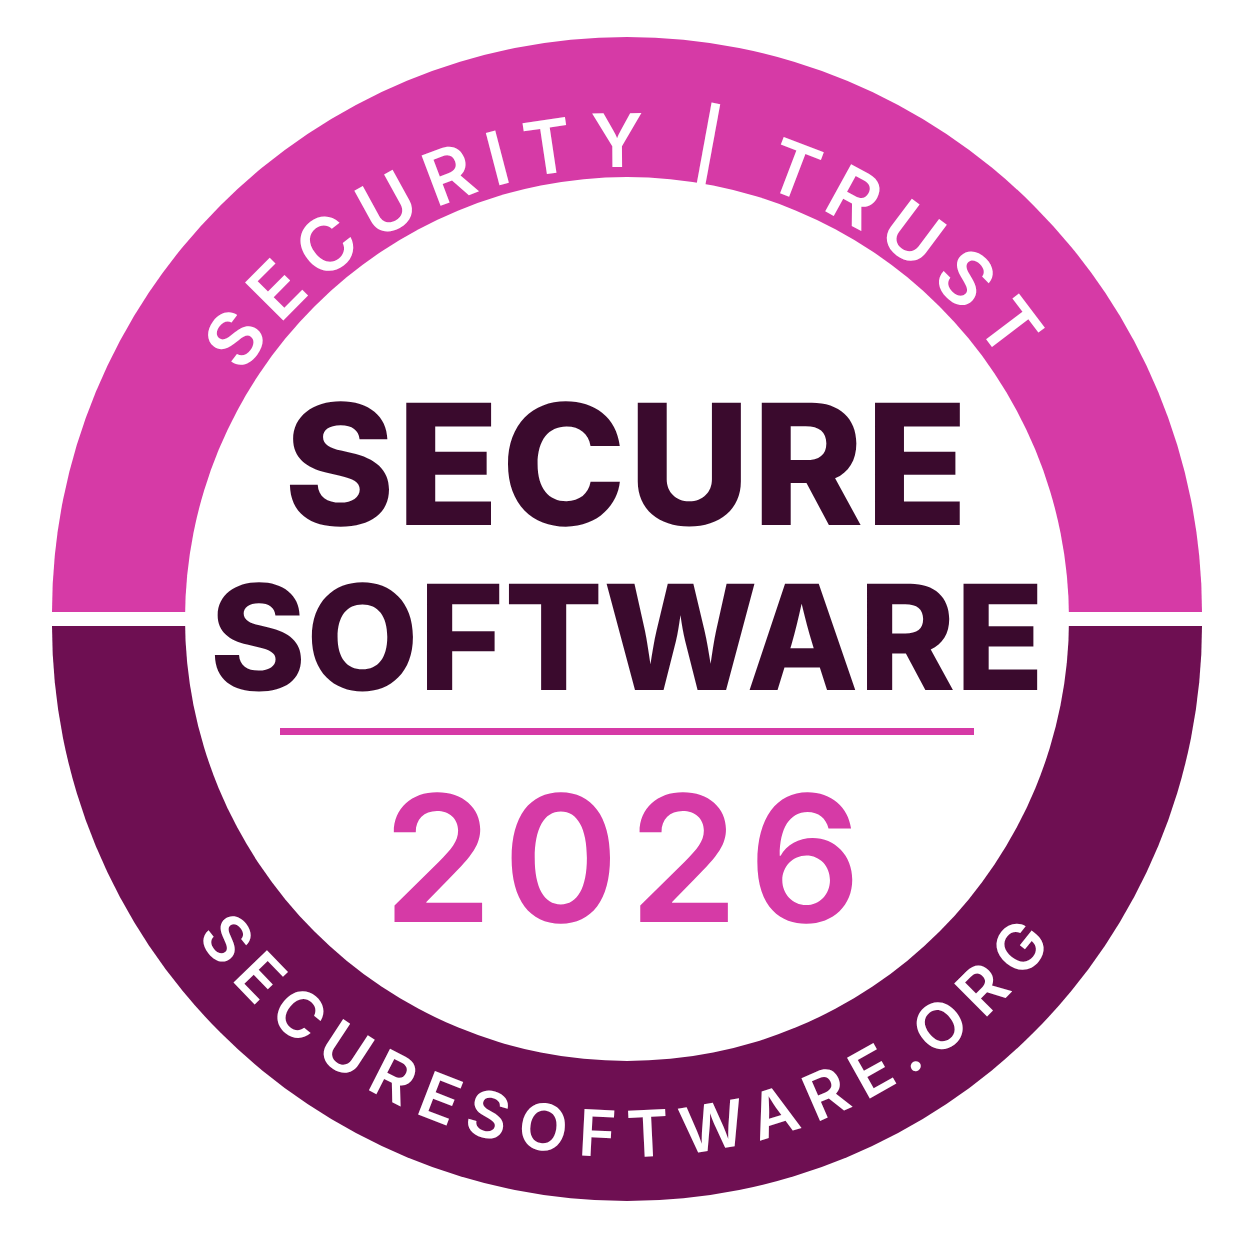
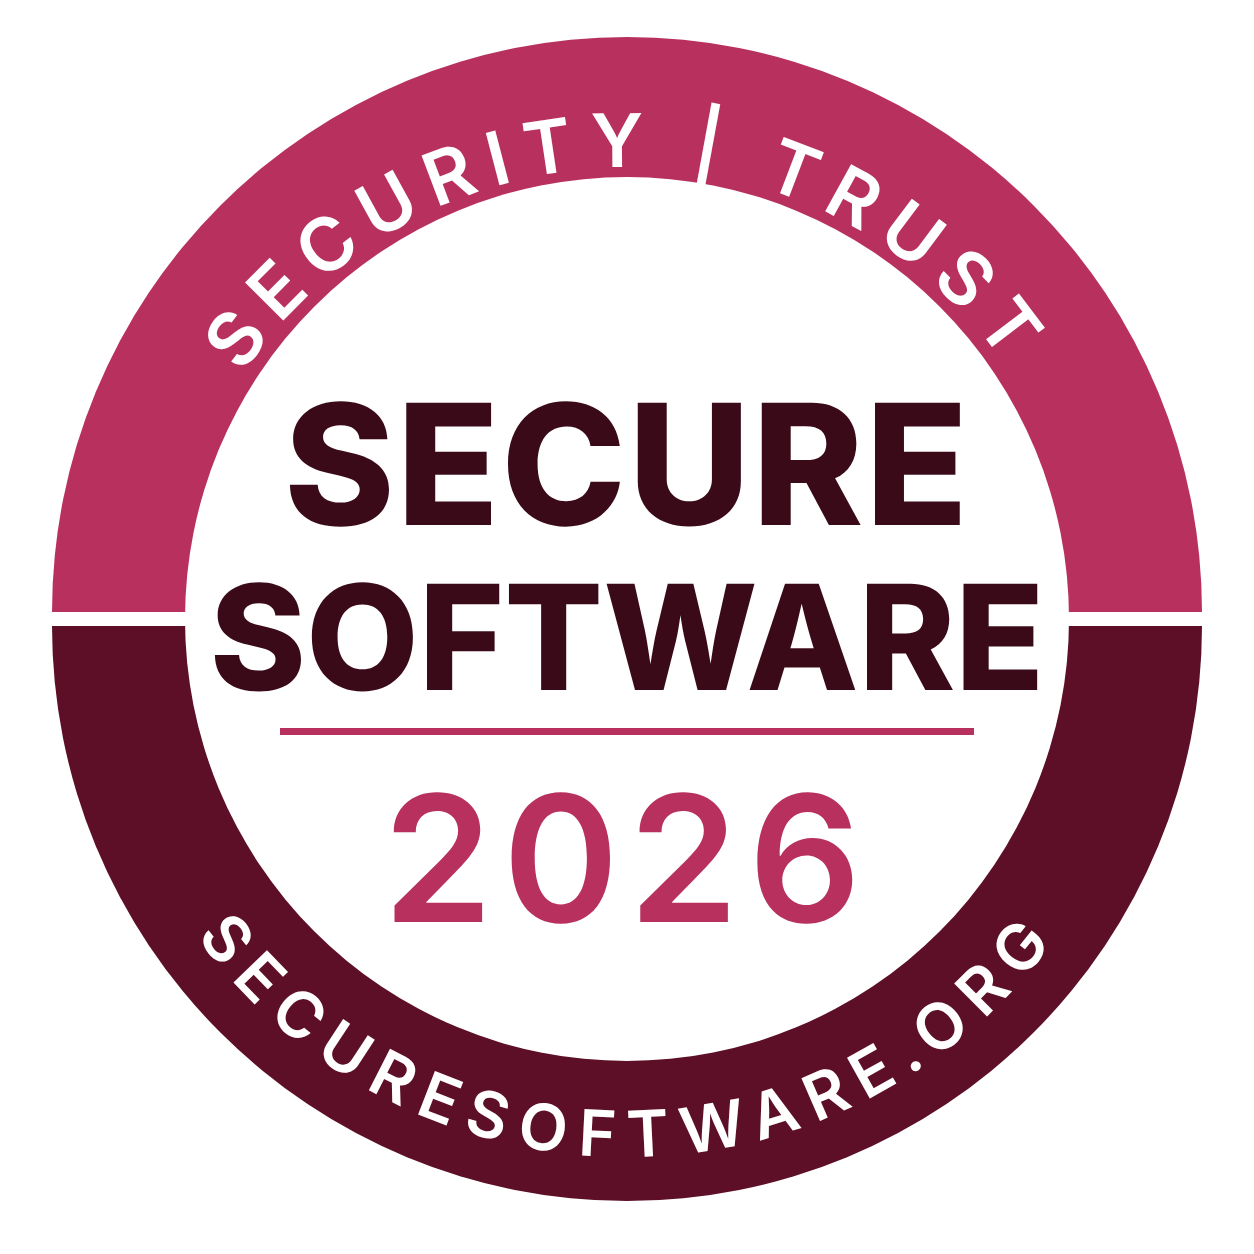
Try wine palette (burgundy/merlot)
Claude-Session: https://claude.ai/code/session_01G6gvxkUtkH3PQ2kPFbRBNR

Changed region(s): [[0.0311, 0.0311, 0.9641, 0.9641], [0.311, 0.622, 0.6842, 0.7464], [0.2177, 0.5598, 0.7775, 0.5909]]

diff --git a/site.css b/site.css
@@ -1,10 +1,10 @@
 /* Secure Software — shared site styles.
-   Same layout system as securefunder.org / securebroker.org, with a magenta palette. */
+   Same layout system as securefunder.org / securebroker.org, with a wine palette. */
 :root {
-  --ink: #1E1219; --text: #45363F; --muted: #7A6672; --rule: #EADCE5; --band: #FCF4F9; --paper: #FFFFFF;
-  --link: #A21C7A; --accent: #A21C7A; --accent-deep: #7E1460; --dark: #2A0B22;
-  --highlight: #F5A6DA; --tag: #FBD3EE;
-  --foot-text: #D4BFCC; --foot-head: #A98E9E; --foot-link: #F5E6EF;
+  --ink: #1E1216; --text: #45353B; --muted: #7A666D; --rule: #EADDE1; --band: #FBF4F6; --paper: #FFFFFF;
+  --link: #8C1D40; --accent: #8C1D40; --accent-deep: #6B1530; --dark: #2A0A14;
+  --highlight: #E8B4C4; --tag: #F5D5DF;
+  --foot-text: #D6BFC7; --foot-head: #A88E97; --foot-link: #F5E7EC;
   --serif: 'Source Serif 4', Georgia, 'Times New Roman', serif;
   --sans: 'Public Sans', 'Helvetica Neue', Arial, sans-serif;
   --wrap: 1160px;
@@ -66,7 +66,7 @@ h1, h2, h3 { font-family: var(--serif); color: var(--ink); font-weight: 500; mar
 .body p:last-child { margin-bottom: 0; }
 .body strong { color: var(--ink); font-weight: 600; }
 .tag-new { display: inline-block; background: var(--tag); color: var(--ink); font-size: 12px; font-weight: 700; letter-spacing: .08em; text-transform: uppercase; line-height: 1; padding: 6px 9px; margin-bottom: 14px; }
-.soft-mark { background: rgba(245, 166, 218, .5); color: inherit; padding: 1px 4px; border-radius: 3px; }
+.soft-mark { background: rgba(232, 180, 196, .55); color: inherit; padding: 1px 4px; border-radius: 3px; }
 
 .lead { font-family: var(--serif); font-size: 24px; line-height: 1.45; color: var(--ink); margin: 0 0 28px; max-width: 30em; }
 
@@ -90,7 +90,7 @@ h1, h2, h3 { font-family: var(--serif); color: var(--ink); font-weight: 500; mar
 /* Compare (not a checklist) */
 .contrast { display: grid; grid-template-columns: repeat(2, minmax(0, 1fr)); gap: 16px; }
 .contrast > div { border: 1px solid var(--rule); padding: 22px 22px 24px; }
-.contrast .is { border-color: var(--accent); background: #FDF5FA; }
+.contrast .is { border-color: var(--accent); background: #FCF4F7; }
 .contrast h3 { font-family: var(--sans); font-size: 12px; font-weight: 700; letter-spacing: .1em; text-transform: uppercase; color: var(--muted); margin: 0 0 12px; }
 .contrast .is h3 { color: var(--accent); }
 .contrast ul { list-style: none; margin: 0; padding: 0; }

diff --git a/how-it-works/index.html b/how-it-works/index.html
@@ -10,8 +10,8 @@
 <meta property="og:type" content="website">
 <meta property="og:url" content="https://securesoftware.org/how-it-works/">
 <meta property="og:image" content="https://securesoftware.org/og-blank.png">
-<link rel="icon" type="image/png" sizes="32x32" href="../magenta-rings.png">
-<link rel="apple-touch-icon" sizes="180x180" href="../magenta-rings.png">
+<link rel="icon" type="image/png" sizes="32x32" href="../wine-rings.png">
+<link rel="apple-touch-icon" sizes="180x180" href="../wine-rings.png">
 <link rel="preconnect" href="https://fonts.googleapis.com">
 <link rel="preconnect" href="https://fonts.gstatic.com" crossorigin>
 <link href="https://fonts.googleapis.com/css2?family=Public+Sans:wght@400;500;600;700&family=Source+Serif+4:opsz,wght@8..60,400;8..60,500;8..60,600;8..60,700&display=swap" rel="stylesheet">
@@ -23,7 +23,7 @@
 
 <header class="nav">
   <div class="wrap">
-    <a class="nav-logo" href="../" aria-label="Secure Software home"><img src="../magenta-rings.png" alt=""><span>Secure Software<sup>&trade;</sup></span></a>
+    <a class="nav-logo" href="../" aria-label="Secure Software home"><img src="../wine-rings.png" alt=""><span>Secure Software<sup>&trade;</sup></span></a>
     <nav class="nav-links" aria-label="Primary">
       <a href="https://securebroker.org" target="_blank" rel="noopener noreferrer">For Brokers</a>
       <a href="https://securefunder.org" target="_blank" rel="noopener noreferrer">For Funders</a>

diff --git a/directory/index.html b/directory/index.html
@@ -10,8 +10,8 @@
 <meta property="og:type" content="website">
 <meta property="og:url" content="https://securesoftware.org/directory/">
 <meta property="og:image" content="https://securesoftware.org/og-blank.png">
-<link rel="icon" type="image/png" sizes="32x32" href="../magenta-rings.png">
-<link rel="apple-touch-icon" sizes="180x180" href="../magenta-rings.png">
+<link rel="icon" type="image/png" sizes="32x32" href="../wine-rings.png">
+<link rel="apple-touch-icon" sizes="180x180" href="../wine-rings.png">
 <link rel="preconnect" href="https://fonts.googleapis.com">
 <link rel="preconnect" href="https://fonts.gstatic.com" crossorigin>
 <link href="https://fonts.googleapis.com/css2?family=Public+Sans:wght@400;500;600;700&family=Source+Serif+4:opsz,wght@8..60,400;8..60,500;8..60,600;8..60,700&display=swap" rel="stylesheet">
@@ -23,7 +23,7 @@
 
 <header class="nav">
   <div class="wrap">
-    <a class="nav-logo" href="../" aria-label="Secure Software home"><img src="../magenta-rings.png" alt=""><span>Secure Software<sup>&trade;</sup></span></a>
+    <a class="nav-logo" href="../" aria-label="Secure Software home"><img src="../wine-rings.png" alt=""><span>Secure Software<sup>&trade;</sup></span></a>
     <nav class="nav-links" aria-label="Primary">
       <a href="https://securebroker.org" target="_blank" rel="noopener noreferrer">For Brokers</a>
       <a href="https://securefunder.org" target="_blank" rel="noopener noreferrer">For Funders</a>

diff --git a/contact/index.html b/contact/index.html
@@ -10,8 +10,8 @@
 <meta property="og:type" content="website">
 <meta property="og:url" content="https://securesoftware.org/contact/">
 <meta property="og:image" content="https://securesoftware.org/og-blank.png">
-<link rel="icon" type="image/png" sizes="32x32" href="../magenta-rings.png">
-<link rel="apple-touch-icon" sizes="180x180" href="../magenta-rings.png">
+<link rel="icon" type="image/png" sizes="32x32" href="../wine-rings.png">
+<link rel="apple-touch-icon" sizes="180x180" href="../wine-rings.png">
 <link rel="preconnect" href="https://fonts.googleapis.com">
 <link rel="preconnect" href="https://fonts.gstatic.com" crossorigin>
 <link href="https://fonts.googleapis.com/css2?family=Public+Sans:wght@400;500;600;700&family=Source+Serif+4:opsz,wght@8..60,400;8..60,500;8..60,600;8..60,700&display=swap" rel="stylesheet">
@@ -23,7 +23,7 @@
 
 <header class="nav">
   <div class="wrap">
-    <a class="nav-logo" href="../" aria-label="Secure Software home"><img src="../magenta-rings.png" alt=""><span>Secure Software<sup>&trade;</sup></span></a>
+    <a class="nav-logo" href="../" aria-label="Secure Software home"><img src="../wine-rings.png" alt=""><span>Secure Software<sup>&trade;</sup></span></a>
     <nav class="nav-links" aria-label="Primary">
       <a href="https://securebroker.org" target="_blank" rel="noopener noreferrer">For Brokers</a>
       <a href="https://securefunder.org" target="_blank" rel="noopener noreferrer">For Funders</a>

diff --git a/join/index.html b/join/index.html
@@ -10,8 +10,8 @@
 <meta property="og:type" content="website">
 <meta property="og:url" content="https://securesoftware.org/join/">
 <meta property="og:image" content="https://securesoftware.org/og-blank.png">
-<link rel="icon" type="image/png" sizes="32x32" href="../magenta-rings.png">
-<link rel="apple-touch-icon" sizes="180x180" href="../magenta-rings.png">
+<link rel="icon" type="image/png" sizes="32x32" href="../wine-rings.png">
+<link rel="apple-touch-icon" sizes="180x180" href="../wine-rings.png">
 <link rel="preconnect" href="https://fonts.googleapis.com">
 <link rel="preconnect" href="https://fonts.gstatic.com" crossorigin>
 <link href="https://fonts.googleapis.com/css2?family=Public+Sans:wght@400;500;600;700&family=Source+Serif+4:opsz,wght@8..60,400;8..60,500;8..60,600;8..60,700&display=swap" rel="stylesheet">
@@ -23,7 +23,7 @@
 
 <header class="nav">
   <div class="wrap">
-    <a class="nav-logo" href="../" aria-label="Secure Software home"><img src="../magenta-rings.png" alt=""><span>Secure Software<sup>&trade;</sup></span></a>
+    <a class="nav-logo" href="../" aria-label="Secure Software home"><img src="../wine-rings.png" alt=""><span>Secure Software<sup>&trade;</sup></span></a>
     <nav class="nav-links" aria-label="Primary">
       <a href="https://securebroker.org" target="_blank" rel="noopener noreferrer">For Brokers</a>
       <a href="https://securefunder.org" target="_blank" rel="noopener noreferrer">For Funders</a>

diff --git a/index.html b/index.html
@@ -10,8 +10,8 @@
 <meta property="og:type" content="website">
 <meta property="og:url" content="https://securesoftware.org/">
 <meta property="og:image" content="https://securesoftware.org/og-blank.png">
-<link rel="icon" type="image/png" sizes="32x32" href="magenta-rings.png">
-<link rel="apple-touch-icon" sizes="180x180" href="magenta-rings.png">
+<link rel="icon" type="image/png" sizes="32x32" href="wine-rings.png">
+<link rel="apple-touch-icon" sizes="180x180" href="wine-rings.png">
 <link rel="preconnect" href="https://fonts.googleapis.com">
 <link rel="preconnect" href="https://fonts.gstatic.com" crossorigin>
 <link href="https://fonts.googleapis.com/css2?family=Public+Sans:wght@400;500;600;700&family=Source+Serif+4:opsz,wght@8..60,400;8..60,500;8..60,600;8..60,700&display=swap" rel="stylesheet">
@@ -23,7 +23,7 @@
 
 <header class="nav">
   <div class="wrap">
-    <a class="nav-logo" href="./" aria-label="Secure Software home"><img src="magenta-rings.png" alt=""><span>Secure Software<sup>&trade;</sup></span></a>
+    <a class="nav-logo" href="./" aria-label="Secure Software home"><img src="wine-rings.png" alt=""><span>Secure Software<sup>&trade;</sup></span></a>
     <nav class="nav-links" aria-label="Primary">
       <a href="https://securebroker.org" target="_blank" rel="noopener noreferrer">For Brokers</a>
       <a href="https://securefunder.org" target="_blank" rel="noopener noreferrer">For Funders</a>

diff --git a/README.md b/README.md
@@ -1,7 +1,7 @@
 # secure-software-site
 
-Static site for Secure Software™ (securesoftware.org), the software certification in the Secure Broker / Secure Funder family. Same layout system as those sites, with an magenta palette.
+Static site for Secure Software™ (securesoftware.org), the software certification in the Secure Broker / Secure Funder family. Same layout system as those sites, with an wine palette.
 
 - `site.css`: shared styles; colors are the tokens at the top.
 - Pages: `/`, `/how-it-works/`, `/join/`, `/contact/`, `/directory/`.
-- `src/badge.svg`, `src/rings.svg`: sources for the badge and logo. Re-render the PNGs with `node src/render.js '[["src/badge.svg","secure-software-badge-2026.png",1254],["src/badge.svg","family-of-brands/secure-software-badge.png",240],["src/rings.svg","magenta-rings.png",500]]'`.
+- `src/badge.svg`, `src/rings.svg`: sources for the badge and logo. Re-render the PNGs with `node src/render.js '[["src/badge.svg","secure-software-badge-2026.png",1254],["src/badge.svg","family-of-brands/secure-software-badge.png",240],["src/rings.svg","wine-rings.png",500]]'`.
